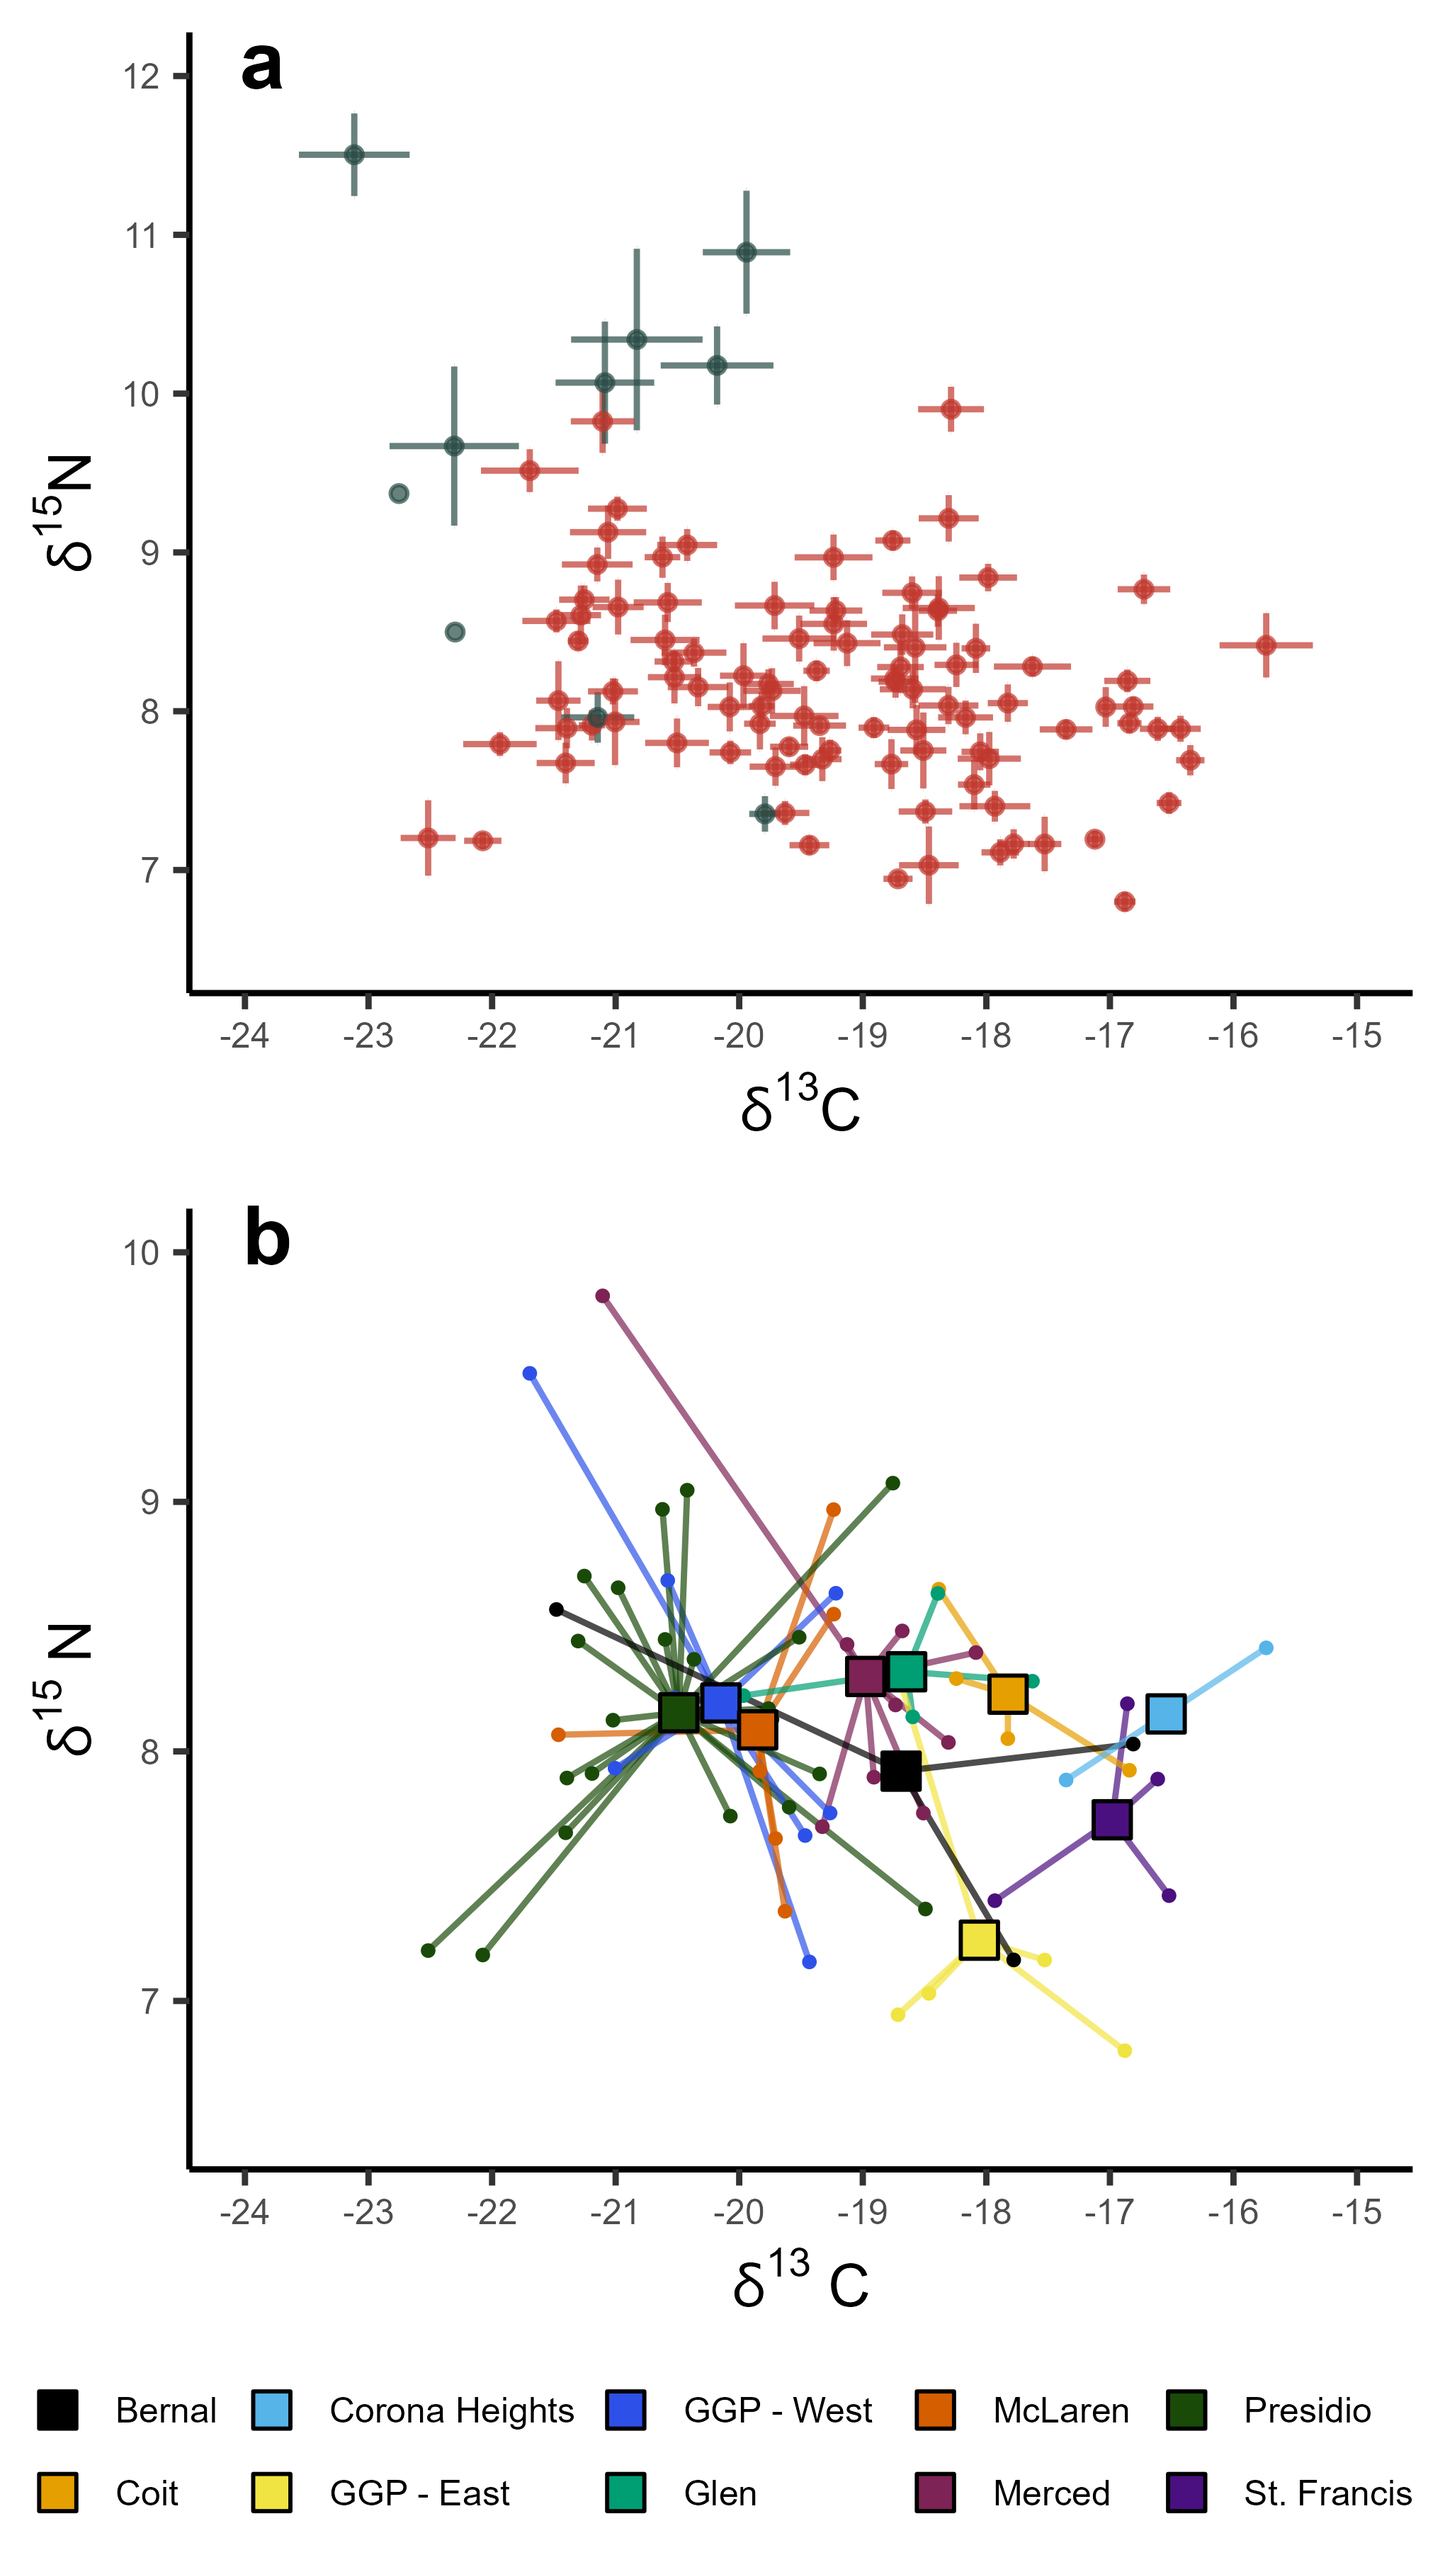
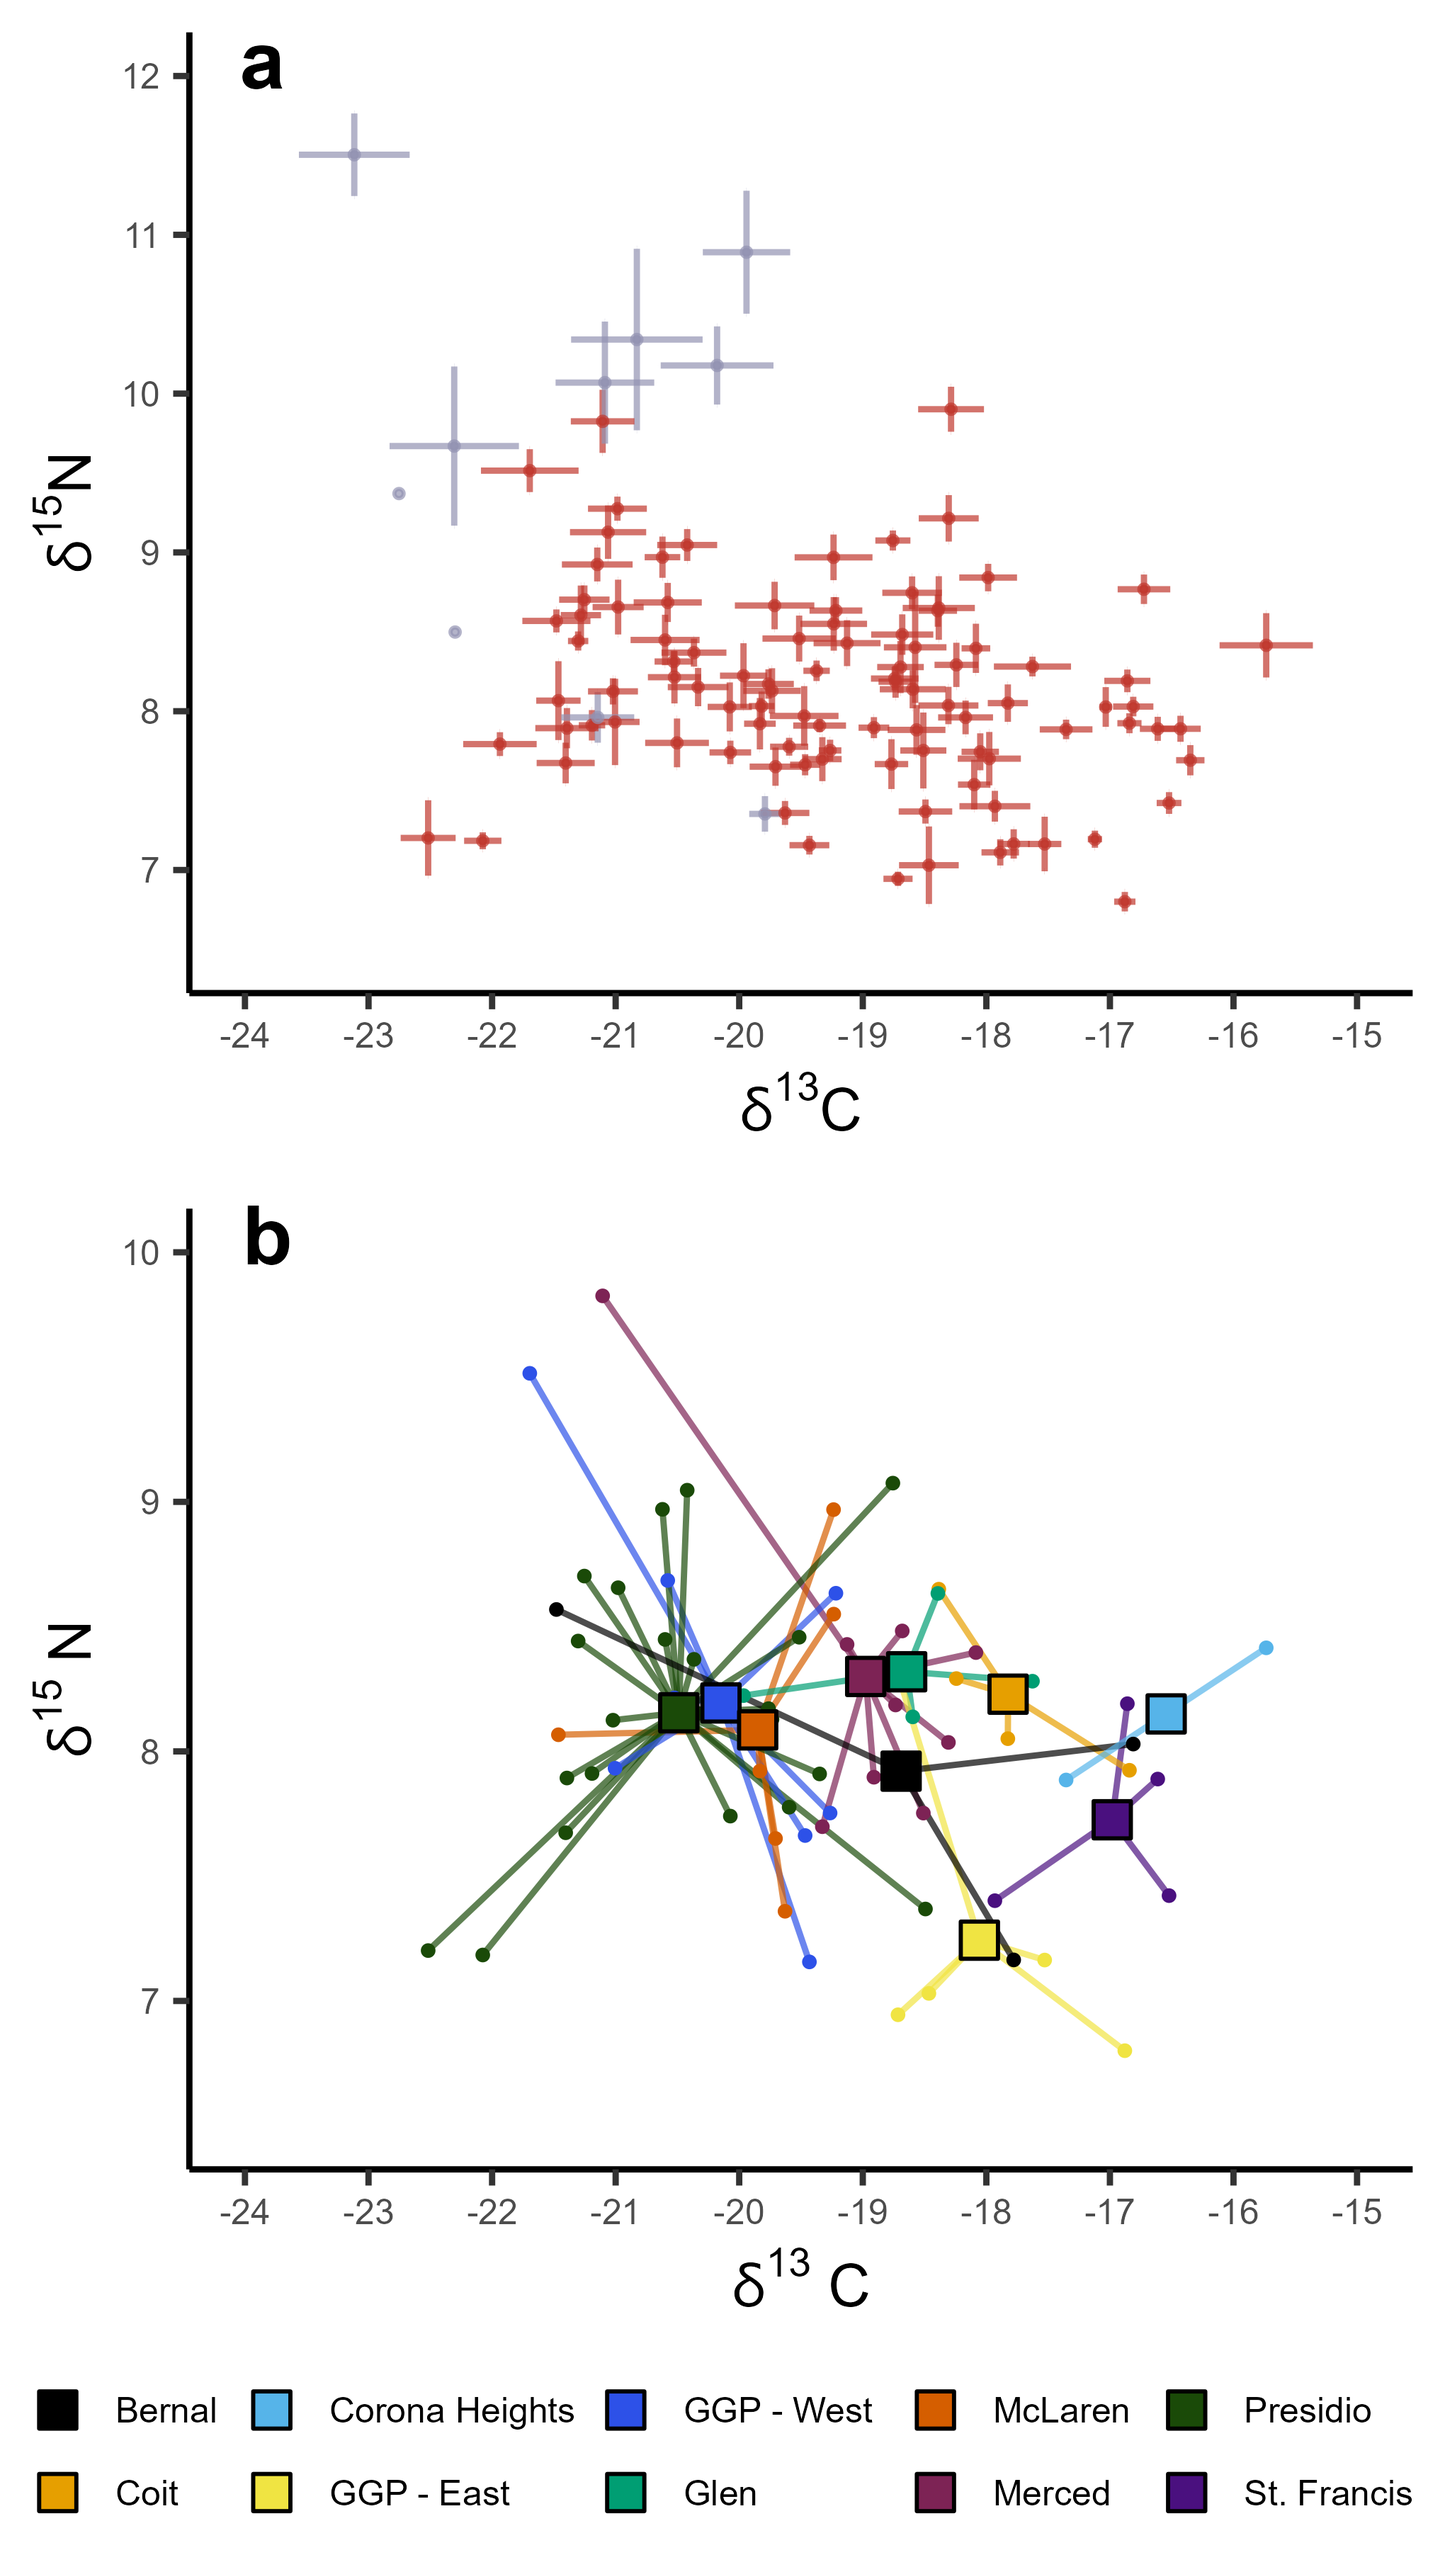
altered colors on figures and new script for territory buffer map

diff --git a/README.md b/README.md
@@ -48,7 +48,7 @@ In the `Data` folder, you will find a number of files:
 > `whisker_metadata.csv`: csv file containing metadata for whisker samples.
 
 | Column         | Description                                                                                                                                                                                                                                                                                                            |
-|------------|------------------------------------------------------------|
+|----------------|------------------------------------------------------------------------------------------------------------------------------------------------------------------------------------------------------------------------------------------------------------------------------------------------------------------------|
 | whisker        | Label for sample                                                                                                                                                                                                                                                                                                       |
 | date_clean     | Date sample was rinsed                                                                                                                                                                                                                                                                                                 |
 | date_chopped   | Date sample was chopped                                                                                                                                                                                                                                                                                                |
@@ -69,7 +69,7 @@ In the `Data` folder, you will find a number of files:
 > `individual_ids.csv`
 
 | Column     | Description                                                               |
-|---------------|---------------------------------------------------------|
+|------------|---------------------------------------------------------------------------|
 | individual | Individual coyote labels that match up with whisker data                  |
 | sfcoy      | Unique name for each individual identified by genotyping in San Francisco |
 | sex        | Sex as identified by genotyping                                           |
@@ -78,7 +78,7 @@ In the `Data` folder, you will find a number of files:
 > `territory_covs.csv`
 
 | Column           | Description                                                 |
-|------------------|------------------------------------------------------|
+|------------------|-------------------------------------------------------------|
 | group            | Coyote family group/territory                               |
 | lat              | Location of territory center point - latitude               |
 | long             | Location of territory center point - longitude              |
